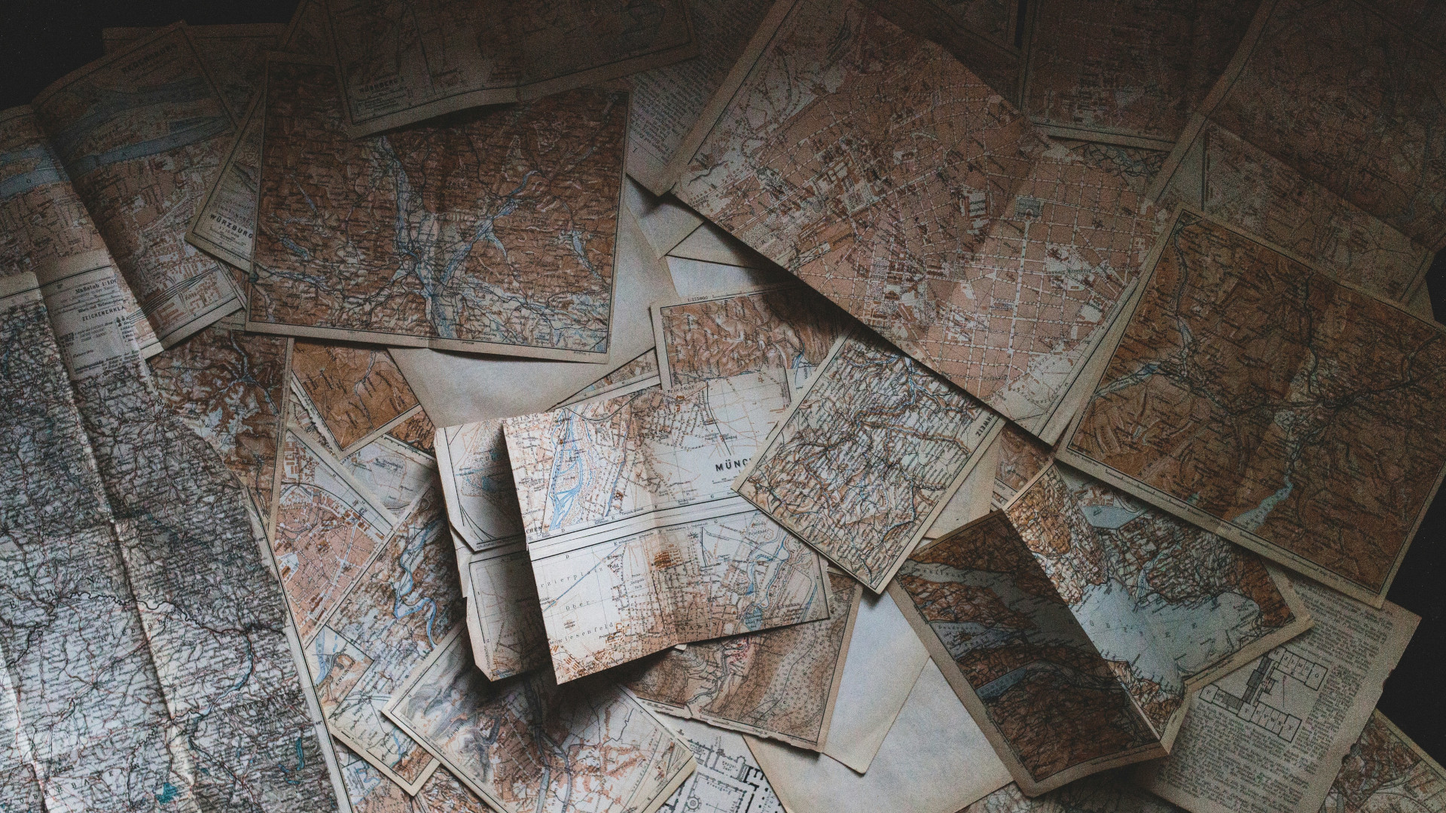
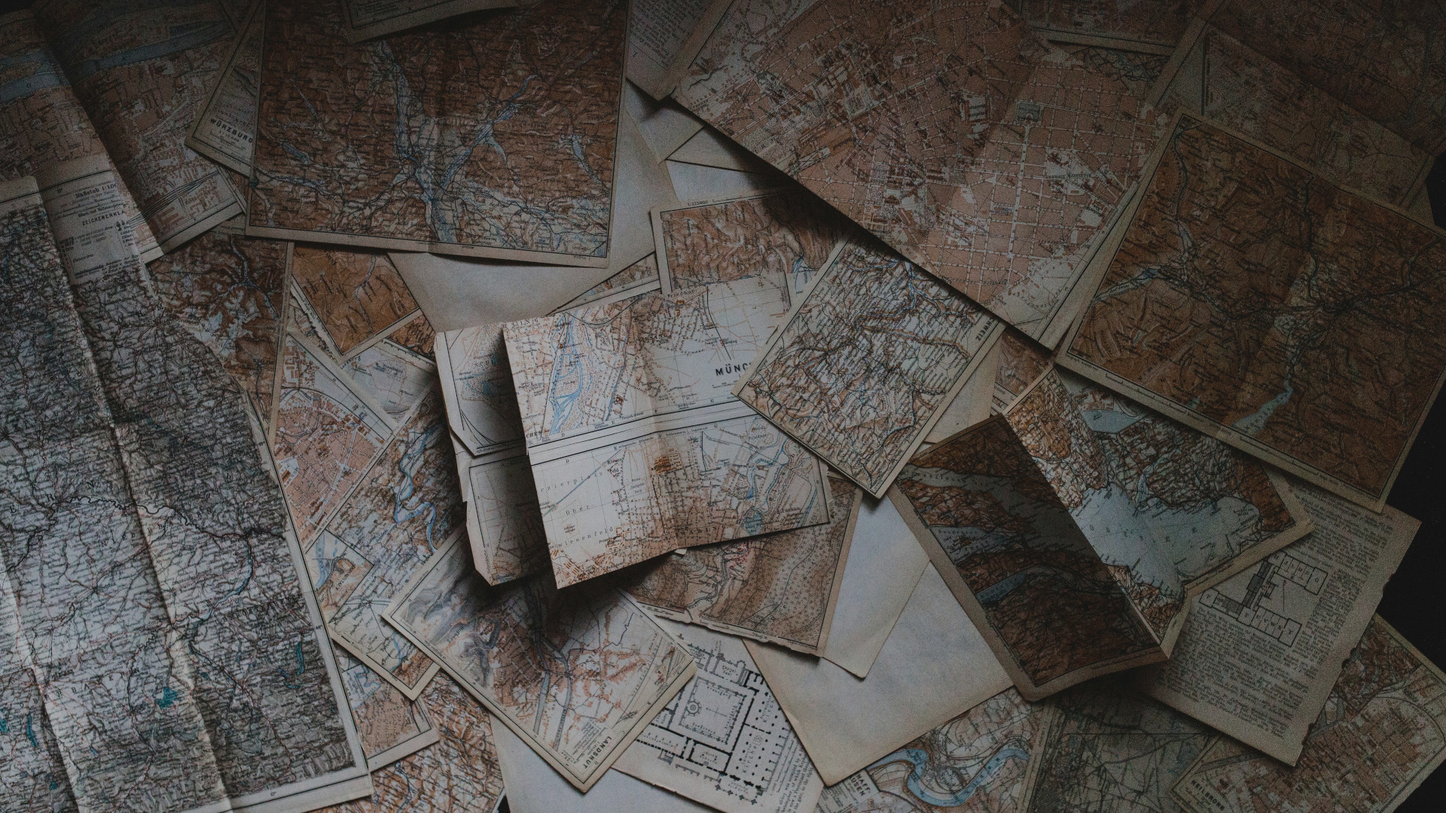
update wallpaper

diff --git a/waybar/style.css b/waybar/style.css
@@ -6,6 +6,7 @@
 @define-color mauve #988090;
 @define-color steel #7890a0;
 @define-color rose #b07878;
+@define-color gold #c8b468;
 
 *{
   font-family: "SF Pro Rounded";
@@ -76,8 +77,8 @@
 }
 
 #custom-clock{
-  color: @fg;
-  border-bottom: 2px solid @fg;
+  color: @gold;
+  border-bottom: 2px solid @gold;
   margin-right: 8px;
 }
 
